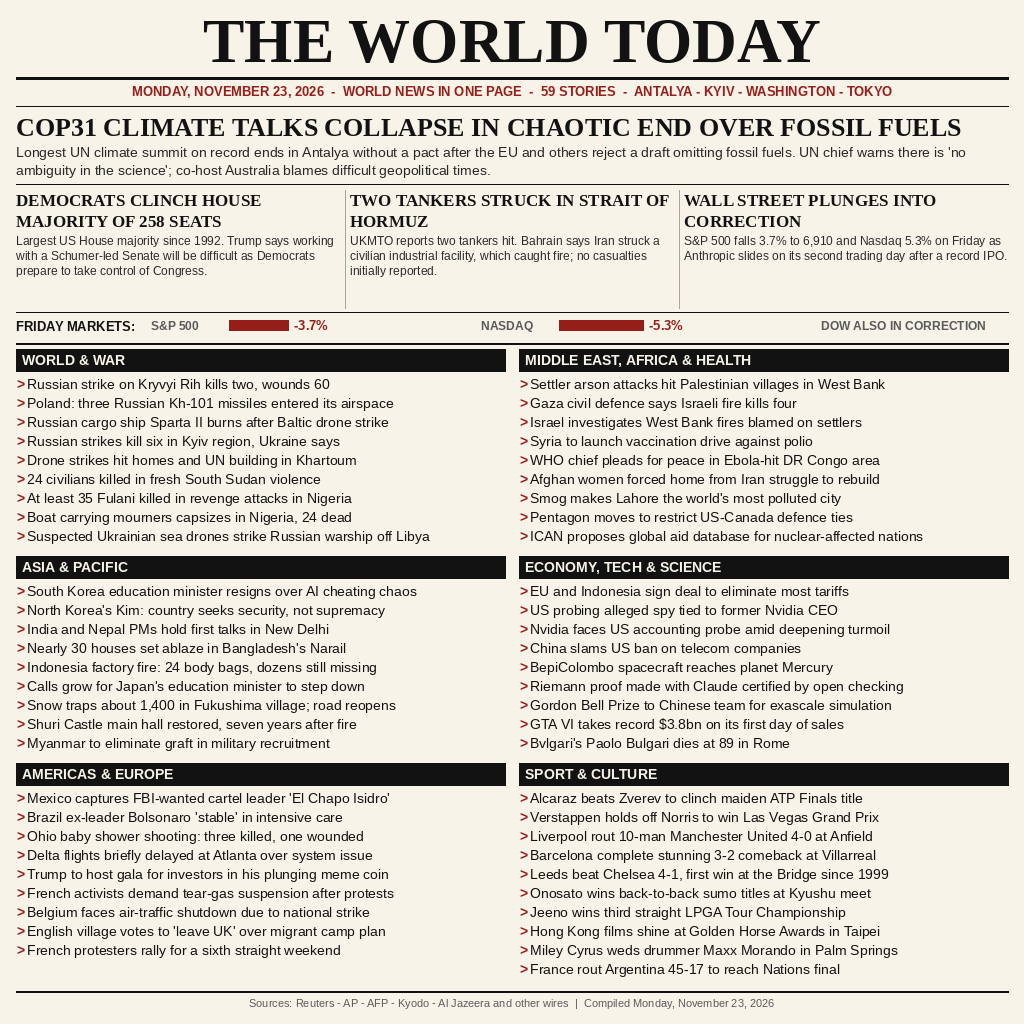
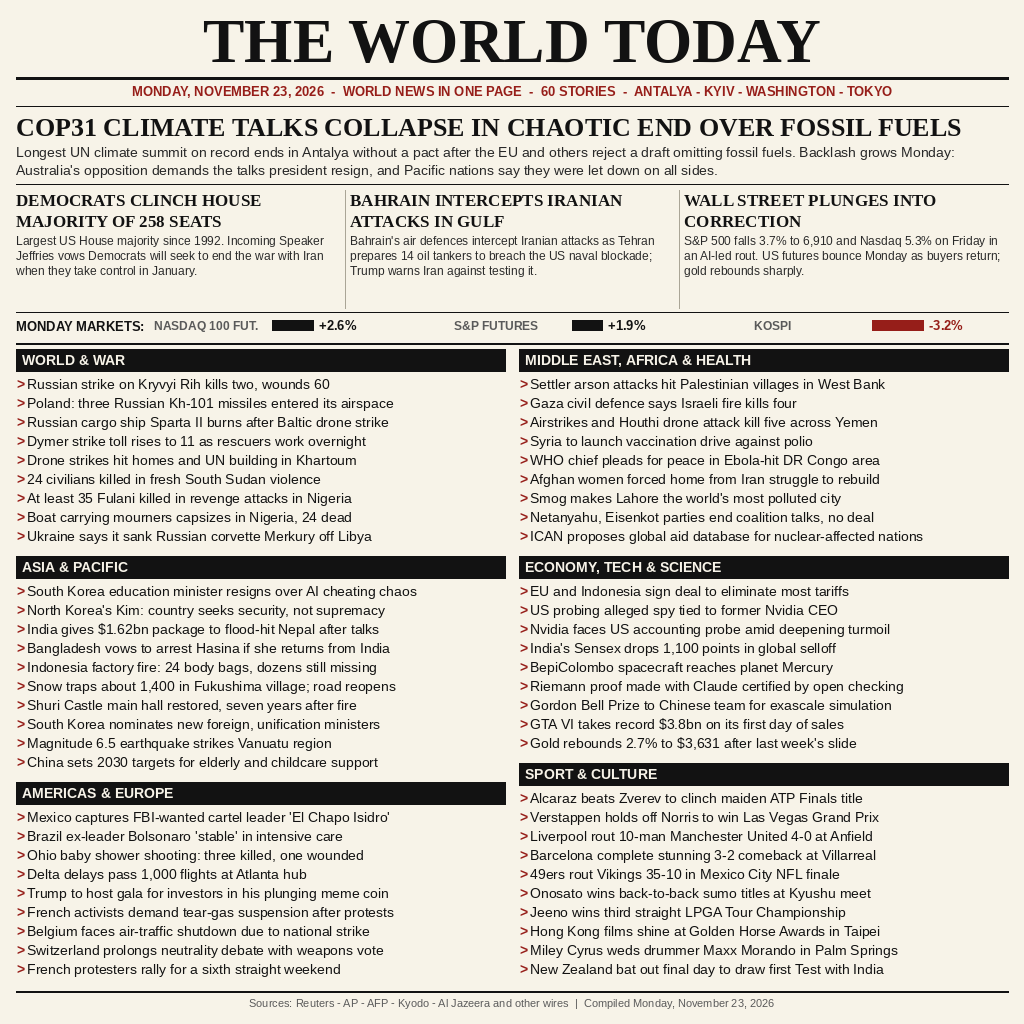
Refresh front page with Monday afternoon news: Gulf standoff, Monday markets, Dymer toll

diff --git a/README.md b/README.md
@@ -9,12 +9,13 @@ Monday, 23 November 2026 in a single 1024×1024 PNG.
 
 The lead story is the collapse of the COP31 climate talks in Antalya
 over fossil fuels. Three further leads cover the Democrats clinching a
-258-seat US House majority, two tankers struck in the Strait of Hormuz,
-and Wall Street plunging into correction, with a small Friday-markets
-chart. Below them, 55 further headlines are grouped by region and
-topic — world and war, Asia and the Pacific, the Americas and Europe,
-the Middle East, Africa and health, economy, tech and science, and
-sport and culture — 59 stories in total on one page.
+258-seat US House majority, Bahrain intercepting Iranian attacks amid
+the naval-blockade standoff in the Gulf, and Wall Street plunging into
+correction, with a small Monday-markets chart. Below them, 56 further
+headlines are grouped by region and topic — world and war, Asia and
+the Pacific, the Americas and Europe, the Middle East, Africa and
+health, economy, tech and science, and sport and culture — 60 stories
+in total on one page.
 
 ## How it works
 
